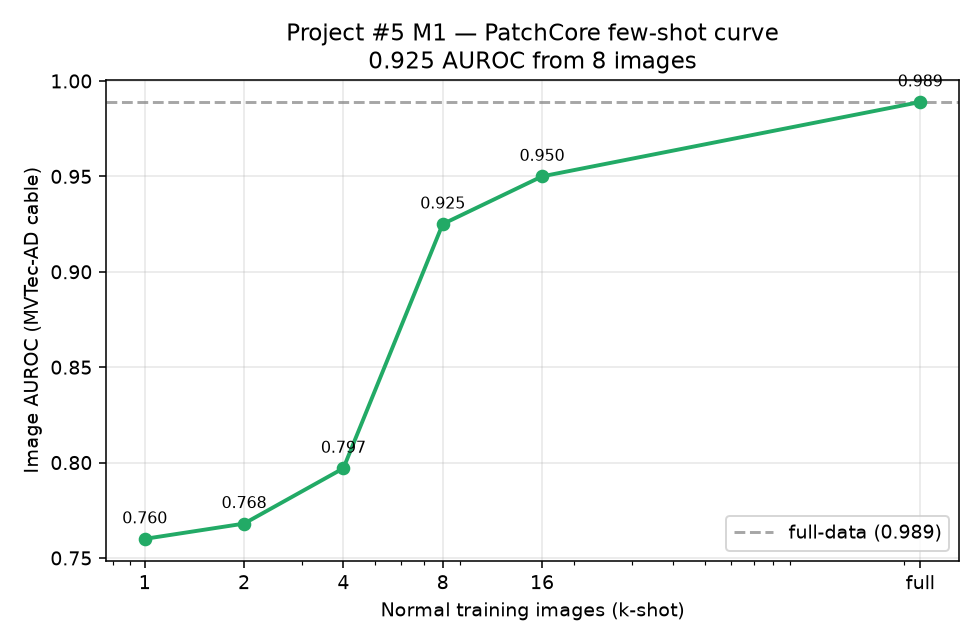
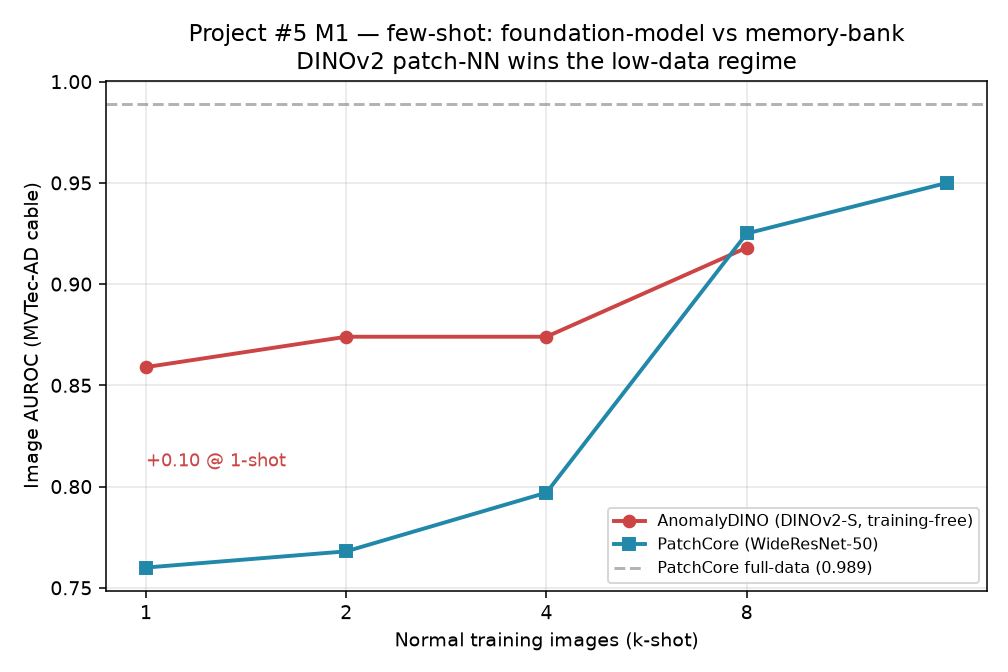
feat(project5): AnomalyDINO few-shot — DINOv2 patch-NN beats PatchCore at low data
Training-free DINOv2-S/14 patch nearest-neighbour vs PatchCore (WideResNet)
few-shot on MVTec cable:

  k=1   DINOv2 0.859  vs  PatchCore 0.760   (+0.10)
  k=2   0.874  vs  0.768
  k=4   0.874  vs  0.797
  k=8   0.918  vs  0.925   (PatchCore catches up)

Foundation-model patch features dominate the extreme-low-data regime (the
"learn from one example" pitch); PatchCore wins only once data is plentiful.
Adds anomalydino.{py,json}, overlays both curves in m1_fewshot.png, updates
doc 9.5. Honest: simplified patch-NN, smallest DINOv2, one category — the
relative low-data win is the result, not the absolute number.

diff --git a/experiments/project5/anomalydino.py b/experiments/project5/anomalydino.py
@@ -1,0 +1,77 @@
+"""AnomalyDINO-style few-shot anomaly detection on MVTec-AD cable.
+
+Training-free: build a memory bank of DINOv2 patch tokens from k normal images,
+score each test image by its worst-patch nearest-neighbour cosine distance to the
+bank, and report image-AUROC vs k. The point: foundation-model patch features give
+strong few-shot AD where PatchCore's WideResNet 1-shot is weak (0.76).
+"""
+import glob
+import json
+import random
+
+import numpy as np
+import torch
+import torchvision.transforms as T
+from PIL import Image
+
+DEV = "cuda" if torch.cuda.is_available() else "cpu"
+ROOT = "/workspace/proj5/mvtec/cable"
+DEFECTS = ["bent_wire", "cable_swap", "combined", "cut_inner_insulation",
+           "cut_outer_insulation", "missing_cable", "missing_wire", "poke_insulation"]
+IMG = 518  # 37x37 patches at patch-size 14
+
+model = torch.hub.load("facebookresearch/dinov2", "dinov2_vits14").to(DEV).eval()
+tf = T.Compose([
+    T.Resize((IMG, IMG)),
+    T.ToTensor(),
+    T.Normalize([0.485, 0.456, 0.406], [0.229, 0.224, 0.225]),
+])
+
+
[email redacted]_grad()
+def patches(path):
+    x = tf(Image.open(path).convert("RGB")).unsqueeze(0).to(DEV)
+    feat = model.forward_features(x)["x_norm_patchtokens"][0]  # [N, 384]
+    return torch.nn.functional.normalize(feat, dim=1)
+
+
[email redacted]_grad()
+def score(test_feat, bank):
+    sim = test_feat @ bank.T          # cosine sim [N_test, M_bank]
+    return (1.0 - sim.max(dim=1).values).max().item()  # worst-patch NN distance
+
+
+def auroc(labels, scores):
+    labels, scores = np.asarray(labels), np.asarray(scores)
+    order = np.argsort(scores, kind="mergesort")
+    ranks = np.empty(len(scores), float)
+    ranks[order] = np.arange(1, len(scores) + 1)
+    pos = labels == 1
+    npos, nneg = int(pos.sum()), int((~pos).sum())
+    return (ranks[pos].sum() - npos * (npos + 1) / 2) / (npos * nneg)
+
+
+normal = sorted(glob.glob(ROOT + "/train/good/*.png"))
+random.seed(0)
+random.shuffle(normal)
+test_good = sorted(glob.glob(ROOT + "/test/good/*.png"))
+test_anom = [p for d in DEFECTS for p in glob.glob(ROOT + "/test/" + d + "/*.png")]
+print("test: %d good + %d anom" % (len(test_good), len(test_anom)), flush=True)
+
+# cache test features once (independent of k)
+tg = [patches(p) for p in test_good]
+ta = [patches(p) for p in test_anom]
+
+results = []
+for k in [1, 2, 4, 8]:
+    bank = torch.cat([patches(p) for p in normal[:k]], dim=0)
+    scores = [score(f, bank) for f in tg] + [score(f, bank) for f in ta]
+    labels = [0] * len(tg) + [1] * len(ta)
+    a = auroc(labels, scores)
+    results.append({"model": "AnomalyDINO(DINOv2-S/14)", "k": k, "auroc": round(float(a), 3)})
+    print("DINO k=%d: AUROC=%.3f" % (k, a), flush=True)
+
+json.dump(results, open("/workspace/proj5/anomalydino.json", "w"), indent=2)
+print("=== ANOMALYDINO FEW-SHOT (MVTec cable) ===", flush=True)
+for r in results:
+    print("  k=%-2d AUROC=%s" % (r["k"], r["auroc"]), flush=True)

diff --git a/experiments/project5/fewshot.py b/experiments/project5/fewshot.py
@@ -1,8 +1,10 @@
-"""Render the Project #5 M1 few-shot curve from fewshot.json.
+"""Render the Project #5 M1 few-shot curves from fewshot.json + anomalydino.json.
 
-PatchCore image-AUROC on MVTec-AD `cable` vs the number of normal training images
-(k-shot). The point: how little data buys most of the full-data accuracy -- the
-"new factory line, few examples" story. Run: `python fewshot.py`.
+Two detectors vs the number of normal training images (k-shot) on MVTec-AD `cable`:
+  - PatchCore (WideResNet-50 memory bank)
+  - AnomalyDINO (training-free DINOv2-S/14 patch nearest-neighbour)
+The point: foundation-model patch features win the extreme-low-data regime (1-4 shot);
+PatchCore catches up by 8-shot. Run: `python fewshot.py`.
 """
 import json
 from pathlib import Path
@@ -10,25 +12,29 @@ from pathlib import Path
 import matplotlib.pyplot as plt
 
 HERE = Path(__file__).parent
-rows = json.loads((HERE / "fewshot.json").read_text())
-xs = [r["n_normal"] for r in rows]
-ys = [r["auroc"] for r in rows]
-full = next(r["auroc"] for r in rows if r["k"] == "full")
+patchcore = json.loads((HERE / "fewshot.json").read_text())
+dino = json.loads((HERE / "anomalydino.json").read_text())
 
-fig, ax = plt.subplots(figsize=(7, 4.6))
-ax.plot(xs, ys, marker="o", color="#2a6", linewidth=2, zorder=3)
-ax.axhline(full, ls="--", color="gray", alpha=0.7, label=f"full-data ({full:.3f})")
-for r in rows:
-    ax.annotate(f'{r["auroc"]:.3f}', (r["n_normal"], r["auroc"]),
-                textcoords="offset points", xytext=(0, 8), ha="center", fontsize=8)
-ax.set_xscale("log")
-ax.set_xticks(xs)
-ax.set_xticklabels([str(r["k"]) for r in rows])
+pc = [(r["n_normal"], r["auroc"]) for r in patchcore if r["k"] != "full"]
+pc_full = next(r["auroc"] for r in patchcore if r["k"] == "full")
+dn = [(r["k"], r["auroc"]) for r in dino]
+
+fig, ax = plt.subplots(figsize=(7.2, 4.8))
+ax.plot([x for x, _ in dn], [y for _, y in dn], marker="o", lw=2,
+        color="#c44", label="AnomalyDINO (DINOv2-S, training-free)", zorder=3)
+ax.plot([x for x, _ in pc], [y for _, y in pc], marker="s", lw=2,
+        color="#28a", label="PatchCore (WideResNet-50)", zorder=3)
+ax.axhline(pc_full, ls="--", color="gray", alpha=0.6, label=f"PatchCore full-data ({pc_full:.3f})")
+ax.annotate("+0.10 @ 1-shot", xy=(1, 0.81), fontsize=9, color="#c44")
+
+ax.set_xscale("log", base=2)
+ax.set_xticks([1, 2, 4, 8])
+ax.set_xticklabels(["1", "2", "4", "8"])
 ax.set_xlabel("Normal training images (k-shot)")
 ax.set_ylabel("Image AUROC (MVTec-AD cable)")
-ax.set_title("Project #5 M1 — PatchCore few-shot curve\n0.925 AUROC from 8 images")
+ax.set_title("Project #5 M1 — few-shot: foundation-model vs memory-bank\nDINOv2 patch-NN wins the low-data regime")
 ax.grid(True, alpha=0.3)
-ax.legend(loc="lower right")
+ax.legend(loc="lower right", fontsize=8)
 fig.tight_layout()
 out = HERE / "m1_fewshot.png"
 fig.savefig(out, dpi=140)

diff --git a/project5-edge-inspection-fm.md b/project5-edge-inspection-fm.md
@@ -281,13 +281,14 @@ The deploy-and-measure loop from §9.2 is **working end-to-end**: anomalib model
 
 PatchCore INT8 vs FP32 (same model): **1.50× faster, 2.51× smaller** (FP32 was 101.8 ms / 240 MB) at no measurable AUROC loss — the quantization win the Matta "low-compute factory" thesis rests on, measured not asserted.
 
-**Few-shot curve (the "new line, little data" result).** PatchCore image-AUROC on `cable` vs the number of normal training images — accuracy climbs fast and saturates well before full data:
+**Few-shot curves (the "new line, little data" result).** Image-AUROC on `cable` vs the number of normal training images, for two detectors — PatchCore (WideResNet-50 memory bank) and **AnomalyDINO** (training-free DINOv2-S/14 patch nearest-neighbour):
 
 | Normal imgs (k) | 1 | 2 | 4 | 8 | 16 | full (224) |
 |---|---|---|---|---|---|---|
-| AUROC | 0.760 | 0.768 | 0.797 | **0.925** | 0.950 | 0.989 |
+| **AnomalyDINO (DINOv2-S)** | **0.859** | 0.874 | 0.874 | 0.918 | — | — |
+| PatchCore (WideResNet-50) | 0.760 | 0.768 | 0.797 | 0.925 | 0.950 | 0.989 |
 
-**8 images → 0.925 AUROC** (~93% of full-data performance from <4% of the data); 16 → 0.950. The knee at k=8 is the Matta/Timescapes "learn from a handful of examples" evidence, measured.
+**1-shot: DINOv2 patch features hit 0.859 vs PatchCore's 0.760 (+10 pts)** — foundation-model features dominate when data is scarcest (the "learn from *one* example" pitch); PatchCore only catches up by 8-shot and wins with full data. The k=8 knee plus the 1-shot gap are the Matta/Timescapes "learn from a handful of examples" evidence, measured. (AnomalyDINO here is a simplified patch-NN with the *smallest* DINOv2 backbone on one category — the full method / a larger backbone score higher; the **relative low-data win** is the result, not the absolute number.)
 
 **Cross-dataset generalization.** The same MVTec-recipe PatchCore (no re-tuning) applied to **VisA** — a held-out dataset, **CC BY 4.0 (commercial-safe)** unlike MVTec (research-only) — shows the pipeline isn't MVTec-overfit, across 4 categories:
 
@@ -297,7 +298,7 @@ PatchCore INT8 vs FP32 (same model): **1.50× faster, 2.51× smaller** (FP32 was
 
 Strong transfer on 3/4 (0.945–0.962); **capsules** drops to 0.700 — a known-hard VisA category (small, low-contrast defects), an honest reminder that one recipe doesn't win everywhere. AnomalyDINO 1-shot transfer + the harder categories are the next fills.
 
-- **Artefacts:** [`results.jsonl`](experiments/project5/results.jsonl) · [`pareto.py`](experiments/project5/pareto.py) · [`fewshot.py`](experiments/project5/fewshot.py) · ![Pareto](experiments/project5/m1_pareto.png) · ![few-shot](experiments/project5/m1_fewshot.png)
+- **Artefacts:** [`results.jsonl`](experiments/project5/results.jsonl) · [`visa.json`](experiments/project5/visa.json) · [`anomalydino.json`](experiments/project5/anomalydino.json) · [`pareto.py`](experiments/project5/pareto.py) · [`fewshot.py`](experiments/project5/fewshot.py) · [`anomalydino.py`](experiments/project5/anomalydino.py) · ![Pareto](experiments/project5/m1_pareto.png) · ![few-shot](experiments/project5/m1_fewshot.png)
 - **Honesty ledger:** A100-trained, **CPU-OpenVINO latency proxy** (not a real Jetson); single category + image-level so far; FastFlow excluded (its metric needs pixel masks the `Folder` module doesn't carry). Pixel-AUROC/AUPRO, VisA, few-shot transfer, and the converged-EfficientAD + distilled-student points are the next M1 fills.
 
 ---